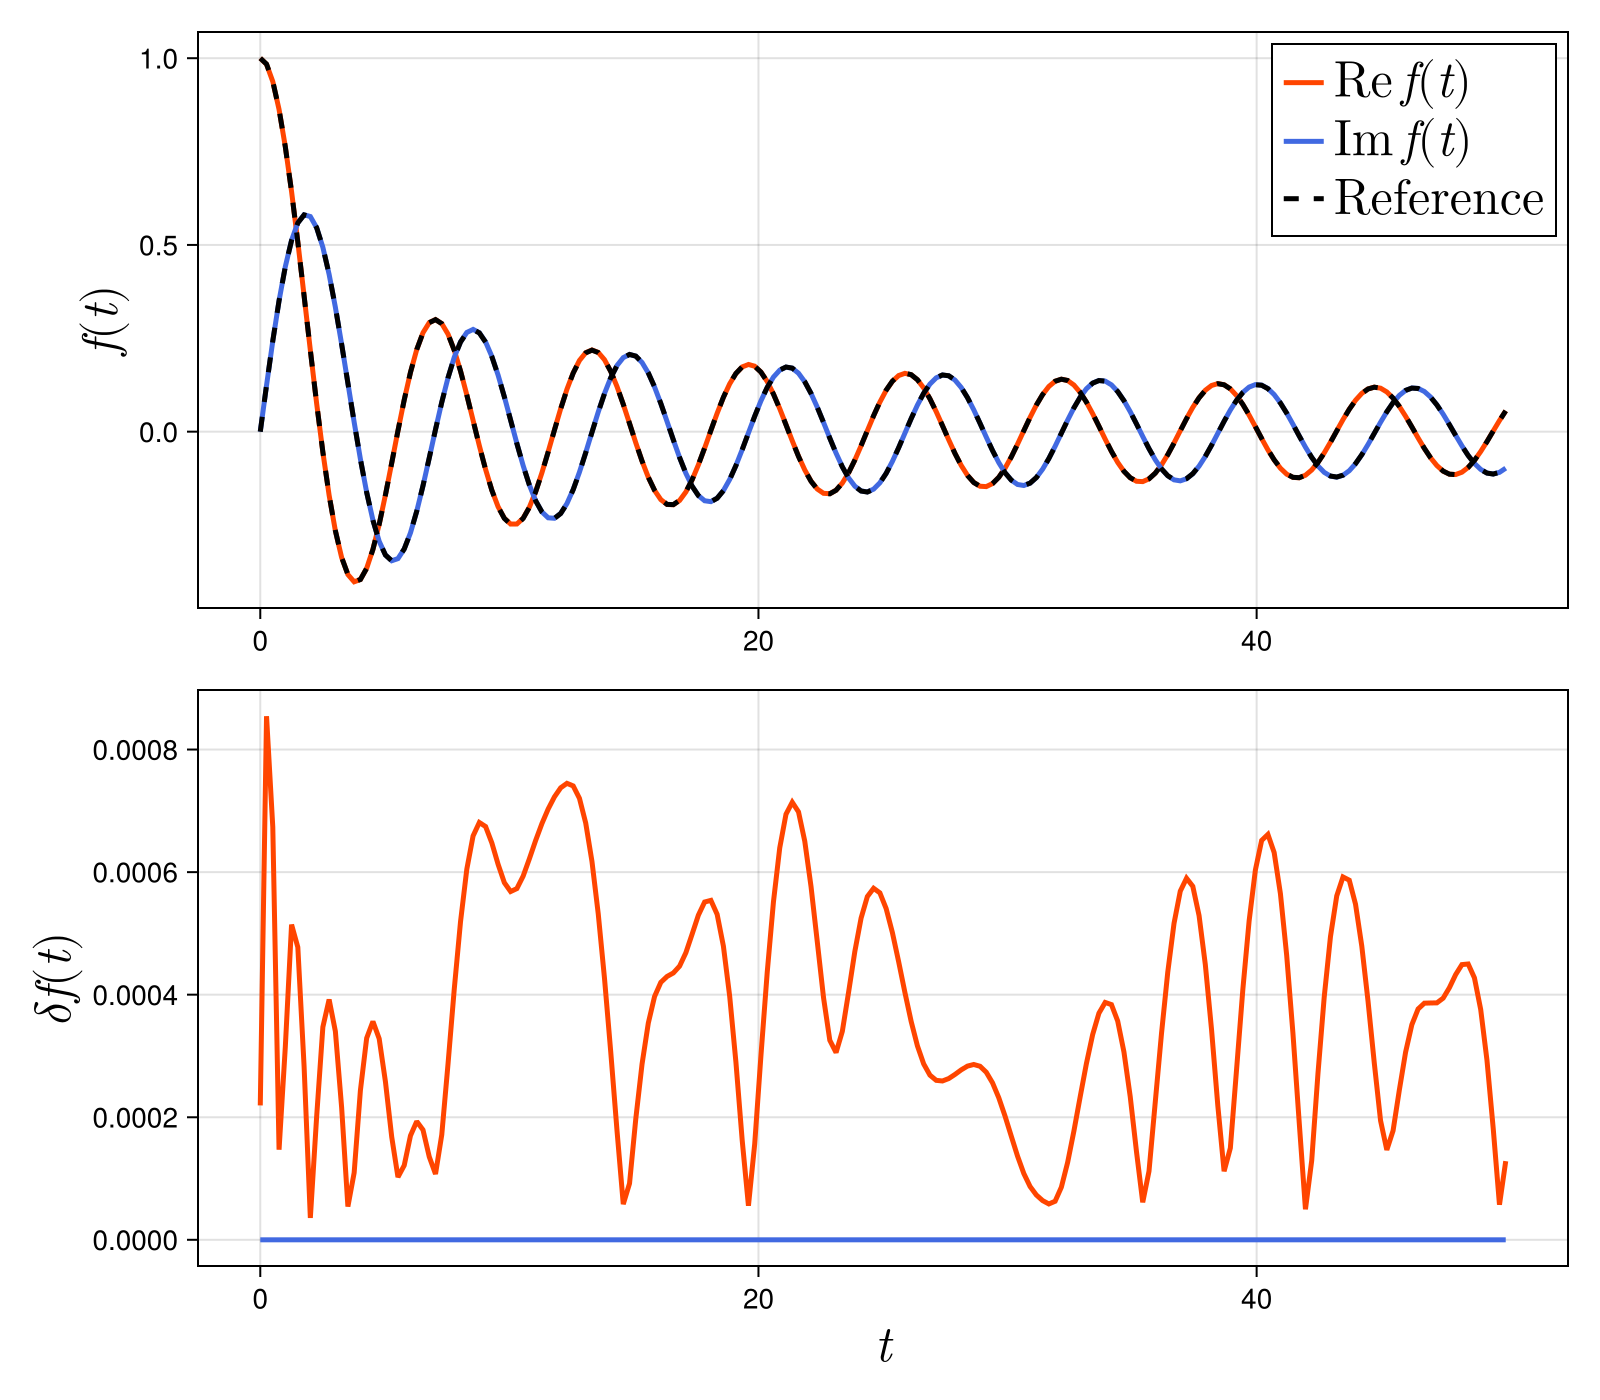
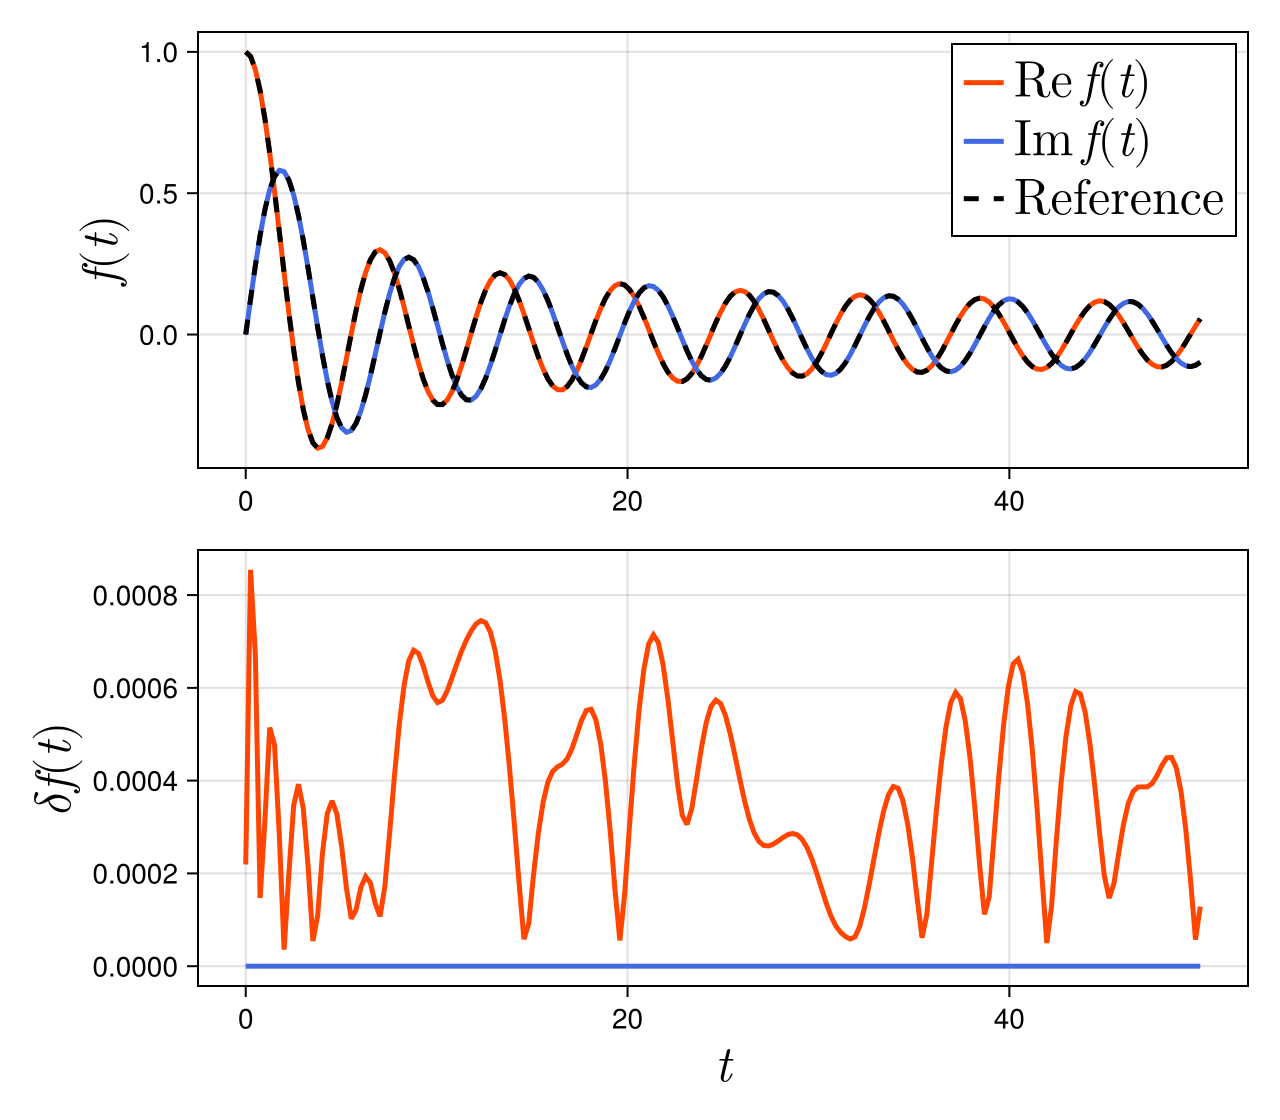
update docs

diff --git a/docs/src/expfit.md b/docs/src/expfit.md
@@ -48,9 +48,7 @@ ef = expfit(f, tmin, tmax, N, tol)
 print("Approximation order = ", length(ef.coeff), "\n")
 
 t = range(tmin, tmax, length=N*2)
-fv = f.(t)
-efv = ef.(t)
-err = abs.(efv .- fv)
+err = abs.(ef.(t) .- f.(t))
 println("Root mean square = ", norm(err)/sqrt(N))
 ```
 Here, tmin and tmax specify the range used for the approximation, N is the number of sample points, and tol is the tolerance.
@@ -61,13 +59,10 @@ When executed, the terminal will display the following.
 Approximation order = 6
 Root mean square = 0.0005937677782521255
 ```
-The Bessel function was approximated with six terms.
+The Bessel function was approximated with six terms for the tolerance of $10^{-2}$.
 
 The results are also illustrated below.
-
-```@raw html
-<img src="result1.png" width="75%"/>
-```
+![result1](result1.png)
 
 We observe that the absolute error $\delta f(t)$ is within the tolerance.
 
@@ -93,12 +88,14 @@ If you want use a different algorithm, you can set the `alg` option  as
 ef = expfit(fv, dt, tol; alg=ESPIRA1())
 ```
 Available algorithms and corresponding options are shown below.
-- alg=ESPRIT()
-- alg=Pencil()
-- alg=Prony()
-- alg=ESPIRA1()
-- alg=ESPIRA2()
-- alg=FastESPRIT()
+| Alogrithm | Option "alg" |
+| --------  | ------------ |
+| ESPRIT | ESPRIT()    |
+| Matrix Pencil | Pencil() |
+| Prony    | Prony()    |
+| ESPIRA-I | ESPIRA1() |
+| ESPIRA-II | ESPIRA2() |
+| Fast ESPRIT | FastESPRIT() |
 
 
 Please see [Reference](@ref) for all the available methods.

diff --git a/docs/src/expred.md b/docs/src/expred.md
@@ -16,10 +16,19 @@ Let `a` be the vector storing the initial exponents and `c` be the vector storin
 ```julia
 er = expred(a, c, 1e-2)
 print("Approximation order = ", length(er.coeff), "\n")
+
+t = range(0.0, 50.0, length=100)
+err = abs.(er.(t) .- Exponentials(a,c).(t))
+println("Root mean square = ", norm(err)/sqrt(N))
 ```
 `er` is an instance of the `Exponentials` type.
 
-```julia
-f = Exponentials(a,c)
+When executed, the terminal will display the following.
 ```
+Approximation order = 10
+Root mean square = 0.0003602011932219654
+```
+
+The results are also illustrated below.
+![result2](result2.png)
 

diff --git a/docs/src/reference.md b/docs/src/reference.md
@@ -10,7 +10,7 @@ DocTestSetup = quote
 end
 ```
 
-## Inspection
+## Methods
 
 ```@autodocs
 Modules = [ExpFit]
